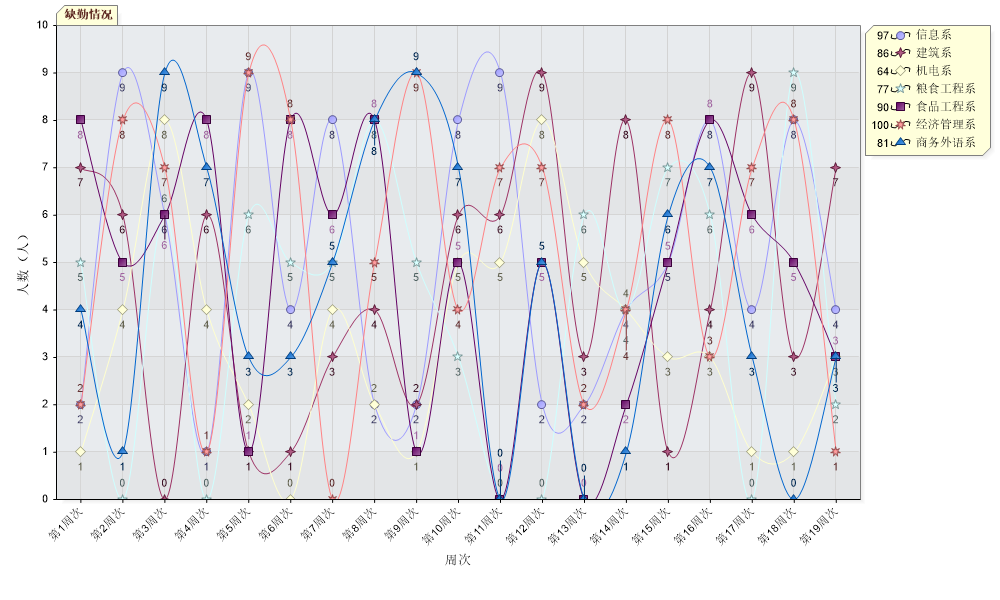
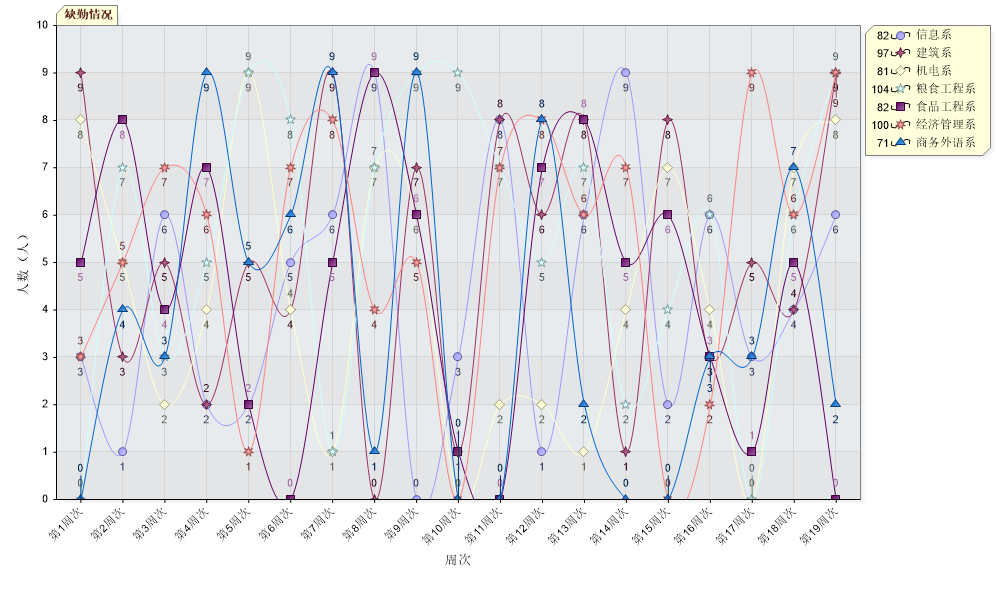
修复错误

diff --git a/Solution1/UI/管理员/zuoyefenxi.aspx.cs b/Solution1/UI/管理员/zuoyefenxi.aspx.cs
@@ -1,0 +1,283 @@
+using System;
+using System.Collections.Generic;
+using System.Linq;
+using System.Web;
+using System.Web.UI;
+using System.Web.UI.WebControls;
+using System.Drawing;
+using dotnetCHARTING;
+public partial class 管理员_Queqinfenxi : System.Web.UI.Page
+{
+    protected void Page_Load(object sender, EventArgs e)
+    {
+        if (!Page.IsPostBack)
+        {
+            Drawing("Spline");
+
+            DropDownList1.Items.Add(new ListItem("AreaLine", "AreaLine"));
+            DropDownList1.Items.Add(new ListItem("Bar", "Bar"));
+            DropDownList1.Items.Add(new ListItem("Column", "Column"));
+            DropDownList1.Items.Add(new ListItem("Cylinder", "Cylinder"));
+            DropDownList1.Items.Add(new ListItem("Line", "Line"));
+            DropDownList1.Items.Add(new ListItem("Marker", "Marker"));
+            DropDownList1.Items.Add(new ListItem("Spline", "Spline"));
+        }
+    }
+
+    private void Drawing(string type)
+    {
+        Charting c = new Charting();
+
+        c.Title = "作业情况";
+        c.XTitle = "周次";
+        c.YTitle = "人数（人）";
+        c.PicHight = 600;
+        c.PicWidth = 1000;
+        c.SeriesName = "合计";//仅对于DataTable类型做数据源时，此属性有效
+        c.PhaysicalImagePath = "ChartImages";//统计图片存放的文件夹名称，缺少对应的文件夹生成不了统计图片
+        c.FileName = "Statistics51aspx";
+        if (type == "AreaLine")
+        {
+            c.Type = SeriesType.AreaLine;
+        }
+        else if (type == "Bar")
+        {
+            c.Type = SeriesType.Bar;
+        }
+        else if (type == "Column")
+        {
+            c.Type = SeriesType.Column;
+        }
+        else if (type == "Cylinder")
+        {
+            c.Type = SeriesType.Cylinder;
+        }
+        else if (type == "Line")
+        {
+            c.Type = SeriesType.Line;
+        }
+        else if (type == "Marker")
+        {
+            c.Type = SeriesType.Marker;
+        }
+        else
+        {
+            c.Type = SeriesType.Spline;
+        }
+
+
+        c.Use3D = false;
+        c.DataSource = GetDataSource();
+        c.CreateStatisticPic(this.Chart1);
+
+    }
+
+
+
+
+    private SeriesCollection GetDataSource()
+    {
+        SeriesCollection SC = new SeriesCollection();
+        Random rd = new Random();
+
+
+        for (int a = 1; a <= 7; a++) //对比的项数
+        {
+            Series s = new Series();
+            if (a == 1)
+            {
+                s.Name = ("信息系");
+            }
+            else if (a == 2)
+            {
+                s.Name = ("建筑系");
+            }
+            else if (a == 3)
+            {
+                s.Name = ("机电系");
+            }
+            else if (a == 4)
+            {
+                s.Name = ("粮食工程系");
+            }
+            else if (a == 5)
+            {
+                s.Name = ("食品工程系");
+            }
+            else if (a == 6)
+            {
+                s.Name = ("经济管理系");
+            }
+            else
+            {
+                s.Name = ("商务外语系");
+            }
+            //各个数据项代表的名称.
+
+            for (int b = 1; b <= 19; b++) //X轴尺度个数，如19个周表示有19个尺度数
+            {
+                Element e = new Element();
+                e.Name = "第" + b.ToString() + "周次";//对应于X轴个尺度的名称
+                e.YValue = rd.Next(10);//与X轴对应的Y轴的数值
+                s.Elements.Add(e);
+            }
+            SC.Add(s);
+        }
+
+
+        //可自定义填充图的填充色，系统采取默认分配各数据项的填充色
+        //SC[0].DefaultElement.Color = Color.Blue;
+        //SC[1].DefaultElement.Color = Color.Red;
+        //SC[2].DefaultElement.Color = Color.FromArgb(255, 99, 49);
+        //SC[3].DefaultElement.Color = Color.FromArgb(0, 156, 255);
+        return SC;
+    }
+
+    public class Charting
+    {
+        private string _phaysicalimagepath;//图片存放路径
+        private string _title; //图片标题
+        private string _xtitle;//图片x座标名称
+        private string _ytitle;//图片y座标名称
+        private string _seriesname;//图例名称
+        private int _picwidth;//图片宽度
+        private int _pichight;//图片高度
+        private SeriesType _type;//统计图类型(柱形,线形等)
+        private bool _use3d;//是否显示成3维图片
+        private SeriesCollection _dt;//统计图数据源
+        private string _filename;//统计图片的名称(不包括后缀名)
+
+        /**/
+        /// <summary>
+        /// 图片存放路径
+        /// </summary>
+        public string PhaysicalImagePath
+        {
+            set { _phaysicalimagepath = value; }
+            get { return _phaysicalimagepath; }
+        }
+        /**/
+        /// <summary>
+        /// 图片标题
+        /// </summary>
+        public string Title
+        {
+            set { _title = value; }
+            get { return _title; }
+        }
+        /**/
+        /// <summary>
+        /// 图片x座标名称
+        /// </summary>
+        public string XTitle
+        {
+            set { _xtitle = value; }
+            get { return _xtitle; }
+        }
+        /**/
+        /// <summary>
+        /// 图片y座标名称
+        /// </summary>
+        public string YTitle
+        {
+            set { _ytitle = value; }
+            get { return _ytitle; }
+        }
+
+        /**/
+        /// <summary>
+        /// 图例名称
+        /// </summary>
+        public string SeriesName
+        {
+            set { _seriesname = value; }
+            get { return _seriesname; }
+        }
+        /**/
+        /// <summary>
+        /// 图片宽度
+        /// </summary>
+        public int PicWidth
+        {
+            set { _picwidth = value; }
+            get { return _picwidth; }
+        }
+        /**/
+        /// <summary>
+        /// 图片高度
+        /// </summary>
+        public int PicHight
+        {
+            set { _pichight = value; }
+            get { return _pichight; }
+        }
+
+        /// <summary>
+        /// 统计图类型(柱形,线形等)
+        /// </summary>
+        public SeriesType Type
+        {
+            set { _type = value; }
+            get { return _type; }
+        }
+
+        /// <summary>
+        /// 是否将输出的图片显示成三维
+        /// </summary>
+        public bool Use3D
+        {
+            set { _use3d = value; }
+            get { return _use3d; }
+        }
+
+        /// <summary>
+        /// 对比图形数据源
+        /// </summary>
+        public SeriesCollection DataSource
+        {
+
+            set { _dt = value; }
+            get { return _dt; }
+        }
+
+        /// <summary>
+        /// 生成统计图片的名称
+        /// </summary>
+        public string FileName
+        {
+            set { _filename = value; }
+            get { return _filename; }
+        }
+
+
+        /// <summary>
+        /// 生成统计图片
+        /// </summary>
+        /// <param name="chart"></param>
+        /// <param name="type">图形类别,如柱状，折线型</param>
+        public void CreateStatisticPic(dotnetCHARTING.Chart chart)
+        {
+            chart.Title = this.Title;
+            chart.XAxis.Label.Text = this.XTitle;
+            chart.YAxis.Label.Text = this.YTitle;
+            chart.TempDirectory = this.PhaysicalImagePath;
+            chart.FileManager.FileName = this.FileName;
+            chart.Width = this.PicWidth;
+            chart.Height = this.PicHight;
+            chart.Type = ChartType.Combo;
+            //chart.Series.Type = this.Type;//生成对比的线型图时不适用
+            chart.DefaultSeries.Type = this.Type; //统一使用默认的序列图类型属性
+            chart.Series.Name = this.SeriesName;
+            chart.SeriesCollection.Add(this.DataSource);
+            chart.DefaultSeries.DefaultElement.ShowValue = true;
+            chart.ShadingEffect = true;
+            chart.Use3D = this.Use3D;
+            chart.Series.DefaultElement.ShowValue = true;
+        }
+    }
+
+    protected void DropDownList1_SelectedIndexChanged1(object sender, EventArgs e)
+    {
+        Drawing(DropDownList1.SelectedValue);
+    }
+}

diff --git a/Solution1/DAL/DBHelper.cs b/Solution1/DAL/DBHelper.cs
@@ -12,18 +12,10 @@ namespace DAL
 {
     public class DBHelper
     {
-
-        /*
-         * 链接sql数据库
-         */
-        public static string  getConn() {
-            string strConn = ConfigurationManager.ConnectionStrings["MyConn"].ConnectionString;
-            return strConn;
-        }
-
         public static DataTable getDt(string strSQL)
         {
-            SqlConnection conn = new SqlConnection(getConn());
+            string strConn = ConfigurationManager.ConnectionStrings["MyConn"].ConnectionString;
+            SqlConnection conn = new SqlConnection(strConn);
             conn.Open();
 
             DataTable dt = new DataTable();
@@ -36,19 +28,15 @@ namespace DAL
 
         public static void Getdt(string strSQL)
         {
-            SqlConnection conn = new SqlConnection(getConn());
+            string strConn = ConfigurationManager.ConnectionStrings["MyConn"].ConnectionString;
+            SqlConnection conn = new SqlConnection(strConn);
             conn.Open();
-
+            
             SqlCommand cmd = new SqlCommand(strSQL,conn);
             cmd.ExecuteNonQuery();
             conn.Close();
         }
 
-
-
-        /*
-         *读取Excel表 
-         */
         public static DataTable getExcle(string url)
         {
             string strConn = "provider=Microsoft.ACE.OLEDB.12.0;data source='" + url + "';Extended Properties='Excel 8.0;HDR=NO;IMEX=1'";
@@ -62,20 +50,6 @@ namespace DAL
             conn.Close();
 
             return ds.Tables[0];
-        }
-
-        /*
-         *批量导入excel数据到数据库
-         */
-        public static void SQLBulkCopy(DataTable dt) {
-            using (SqlConnection conn = new SqlConnection(getConn())) {
-                conn.Open();
-                using (SqlBulkCopy bulkCopy = new SqlBulkCopy(conn)) {
-                    bulkCopy.DestinationTableName = "TabTempUserInfo";
-                    //bulkCopy.ColumnMappings.Add("","");
-                    bulkCopy.WriteToServer(dt);
-                }
-            }
         }
     }
 }
